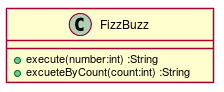
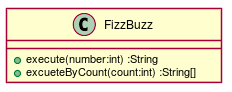
FizzBuzz #EFJ-8
・設計:出力された値を全て保持する

diff --git a/src/test/java/tdd/fizzbuzz/FizzBuzzTest.java b/src/test/java/tdd/fizzbuzz/FizzBuzzTest.java
@@ -42,7 +42,12 @@ public class FizzBuzzTest {
     }
     @Test
     public void print100thCountResult() {
-        String result = FizzBuzz.executeByCount(100);
-        assertEquals("Buzz",result);
+        String[] result = FizzBuzz.executeByCount(100);
+        assertEquals("Buzz",result[100]);
+    }
+    @Test
+    public void print30thCountResult() {
+        String result[] = FizzBuzz.executeByCount(30);
+        assertEquals("FizzBuzz",result[30]);
     }
 }

diff --git a/docs/fizzbuzz.md b/docs/fizzbuzz.md
@@ -14,12 +14,13 @@
   
 ### TODO
   
-+ [x] ~~クラスを定義する~~
++ [x] ~~クラスを定義する~~
 + [x] ~~３で割り切れる場合のテストを作成する~~
 + [x] ~~５で割り切れる場合のテストを作成する~~
-+ [x] ~~両者で割り切れる場合のテストを作成する~~
++ [x] ~~両者で割り切れる場合のテストを作成する~~
 + [x] ~~条件を満たさない場合のテストを作成する~~
-+ [x] ~~指定された回数だけ繰り返し実行する場合のテストを作成する~~
++ [x] ~~指定された回数だけ繰り返し実行する場合のテストを作成する~~
++ [ ] **出力された値を全て保持する**
   
 ### クラス図
   
@@ -32,13 +33,6 @@
   
 ## 実装
   
-### ふりかえり
-  
-+ 最初のイテレーションで不明だった部分の仕様を定義した
-+ 追加仕様をテスト駆動で実装した
-+ 返り値が文字型の関数では数値をそのまま返すことができないので文字型に変換して返すようにした
-+ 繰り返し処理は条件値の比較演算子に注意する
-+ シーケンス図を作成した
   
 ### `FizzBuzzTest.java`
   
@@ -87,8 +81,13 @@ public class FizzBuzzTest {
     }
     @Test
     public void print100thCountResult() {
-        String result = FizzBuzz.executeByCount(100);
-        assertEquals("Buzz",result);
+        String[] result = FizzBuzz.executeByCount(100);
+        assertEquals("Buzz",result[100]);
+    }
+    @Test
+    public void print30thCountResult() {
+        String result[] = FizzBuzz.executeByCount(30);
+        assertEquals("FizzBuzz",result[30]);
     }
 }
   

diff --git a/docs/src/fizzbuzz.md b/docs/src/fizzbuzz.md
@@ -22,13 +22,14 @@ markdown:
 + [x] ~~両者で割り切れる場合のテストを作成する~~
 + [x] ~~条件を満たさない場合のテストを作成する~~
 + [x] ~~指定された回数だけ繰り返し実行する場合のテストを作成する~~
++ [ ] **出力された値を全て保持する**
 
 ### クラス図
 ```puml
 @startuml
 class FizzBuzz {
   +execute(number:int) :String
-  +excueteByCount(count:int) :String
+  +excueteByCount(count:int) :String[]
 }
 @enduml
 ```
@@ -46,12 +47,6 @@ class FizzBuzz {
 ```
 
 ## 実装
-### ふりかえり
-+ 最初のイテレーションで不明だった部分の仕様を定義した
-+ 追加仕様をテスト駆動で実装した
-+ 返り値が文字型の関数では数値をそのまま返すことができないので文字型に変換して返すようにした
-+ 繰り返し処理は条件値の比較演算子に注意する
-+ シーケンス図を作成した
 
 ### `FizzBuzzTest.java`
 @import "../../src/test/java/tdd/fizzbuzz/FizzBuzzTest.java"
